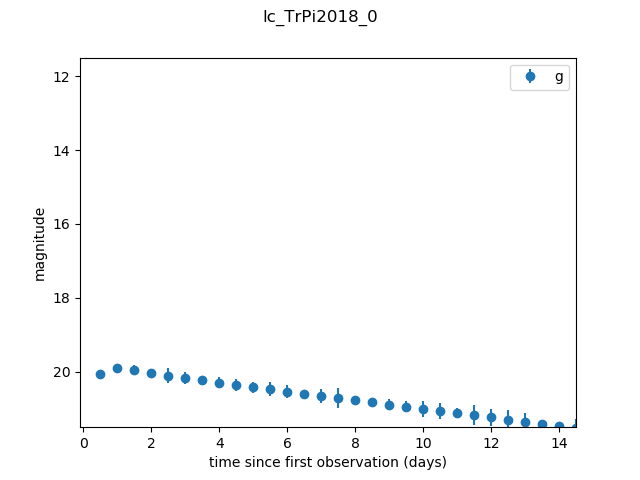
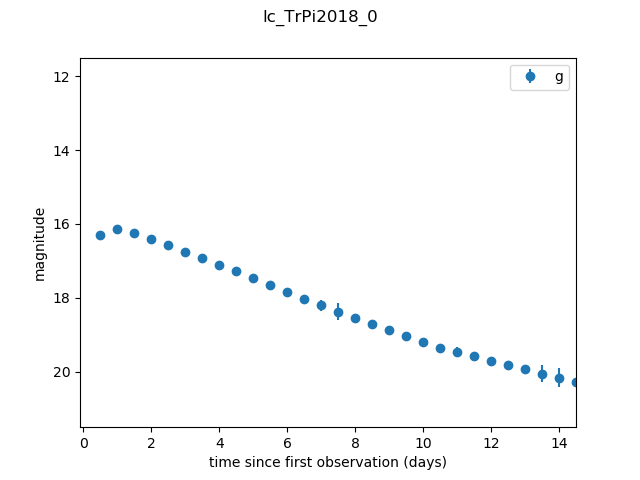
semi-rise for TrPi2108
difficulty in pinning parameters to have a proper rise time for GRB afterglow model

Changed region(s): [[0.1562, 0.75, 0.9062, 0.9062], [0.125, 0.4688, 0.75, 0.75], [0.75, 0.75, 0.9062, 0.8125]]

diff --git a/lightcurve_script.py b/lightcurve_script.py
@@ -129,9 +129,7 @@ def lc_gen(model, inj_path, out_path,inj_label='injection',filters=['g']):
                '--dt', '0.5',
                '--ztf-uncertainties',
             #    '--ztf-sampling',
-            #    '--ztf-ToO', '180',
-            #    '--rubin-ToO', #'180',
-            #    '--rubin-ToO-type', 'BNS',
+            #    '--ztf-ToO', '300',
                '--filters', ','.join(filters),
                '--outdir', out_path,
             #    '--photometry-augmentation',
